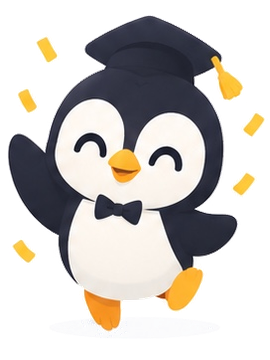
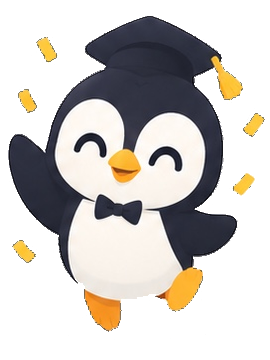
Back to Duolingo's white light theme; clean the penguin's edges
- White ground, grey-bordered cards, Duolingo green buttons with white text,
  unit banners with white text (dark on gold); dark theme kept
- Penguin poses: light fringe removed so they sit cleanly on dark grounds
- CLAUDE.md and DESIGN.md record the white theme; the anti-slop rules stay
  as guidance

Claude-Session: https://claude.ai/code/session_01FsTMQKvbk8XhsCdfuhHWCR

diff --git a/src/styles.css b/src/styles.css
@@ -1,6 +1,6 @@
 /* Hugo's Piano. Design rules live in DESIGN.md and CLAUDE.md; read them before changing anything here.
-   Duolingo's measured system: sky-blue ground (#ddf4ff), white cards with a soft tinted shadow, lime
-   primary (#a5ed6e) with near-black text, one blue accent (#1cb0f6) for interactive things, charcoal
+   Duolingo's app look: a white ground, cards with a 2px grey border, the Duolingo green (#58cc02)
+   with white text on chunky buttons, one blue accent (#1cb0f6) for interactive things, charcoal
    text, one family (Nunito, bold), 12px corners, a 10px spacing unit, 300ms ease for every transition.
    Light and dark themes come from the same tokens. The piano screens keep their Simply Piano look. */
 
@@ -13,39 +13,39 @@
 
 :root {
   /* Ground and surfaces */
-  --bg: #ddf4ff;
-  --bg-deep: #eef8fe;
+  --bg: #ffffff;
+  --bg-deep: #f7f7f7;
   --surface: #ffffff;
-  --surface-2: #f2f9fd;
+  --surface-2: #f7f7f7;
   --raised: #ffffff;
-  --raised-edge: #cfe0ea;
-  --line: #d5e3ec;
-  --line-2: #b8cbd6;
+  --raised-edge: #e5e5e5;
+  --line: #e5e5e5;
+  --line-2: #cecece;
   --paper: #ffffff;
-  --shadow: 0 0 5px rgba(28, 90, 128, .2);
+  --shadow: none;
   /* Text */
   --heading: #3c3c3c;
   --ink: #3c3c3c;
   --ink-2: #5c5c5c;
   --ink-3: #777777;
   /* Primary: lime with near-black text */
-  --go: #a5ed6e;
-  --go-hi: #b3f282;
-  --go-edge: #7fc94c;
-  --go-ink: #111111;
-  --go-soft: #e8fbd9;
-  --go-text: #2e7d0f;
+  --go: #58cc02;
+  --go-hi: #61e002;
+  --go-edge: #58a700;
+  --go-ink: #ffffff;
+  --go-soft: #d7ffb8;
+  --go-text: #3b8a00;
   /* Accent: the one interactive blue */
   --blue: #1cb0f6;
-  --blue-edge: #1593cf;
-  --blue-soft: #e3f5ff;
-  --blue-line: #9ad9fb;
-  --on-blue: #111111;
+  --blue-edge: #1899d6;
+  --blue-soft: #ddf4ff;
+  --blue-line: #84d8ff;
+  --on-blue: #ffffff;
   --blue-text: #0a6fa3;
   /* Game colours, each with a text shade that passes AA */
   --star: #ffc800;
   --star-edge: #e0ad00;
-  --star-off: #d5e3ec;
+  --star-off: #e5e5e5;
   --star-text: #8a6500;
   --flame: #ff9600;
   --flame-edge: #e08300;
@@ -941,7 +941,7 @@ h1, h2, h3 { font-weight: 900; letter-spacing: .8px; color: var(--heading); }
 .icon-btn.ghost { border: 0; box-shadow: none; }
 
 /* Cards: white, a 2px grey border, a soft edge. */
-.card { background: var(--surface); border: 0; border-radius: 12px; box-shadow: var(--shadow); }
+.card { background: var(--surface); border: 2px solid var(--line); border-radius: 12px; box-shadow: none; }
 .veil .card { border-radius: 12px; border: 0; box-shadow: var(--shadow); }
 
 /* Shell: a white sidebar; the current page sits in a pale blue pill. */
@@ -1391,8 +1391,8 @@ button.gb-stat:hover { background: var(--bg-deep); }
 /* =====================================================================
    System layer: the measured design rules (DESIGN.md). Last, so it wins.
    ===================================================================== */
-.veil .card { border: 0; box-shadow: var(--shadow); }
-.rail { background: var(--surface); border-right: 0; box-shadow: var(--shadow); }
+.veil .card { border: 2px solid var(--line); box-shadow: 0 6px 0 var(--line); }
+.rail { background: var(--surface); border-right: 2px solid var(--line); box-shadow: none; }
 .rail-btn.on { color: var(--blue-text); background: var(--blue-soft); box-shadow: inset 0 0 0 2px var(--blue-line); }
 .content { background: var(--bg); }
 .page-head h1, .shop .page-head h1 { font-size: 22px; letter-spacing: .8px; }
@@ -1412,7 +1412,7 @@ button.gb-stat:hover { background: var(--bg-deep); }
 .lesson-energy { color: #a8307f; background: #fff; }
 
 /* Path: unit colours carry their own text colour (--unit-ink) so every banner, node and card passes contrast */
-.path-unit, .guide-card, .theory-screen { --unit-ink: #111111; }
+.path-unit, .guide-card, .theory-screen { --unit-ink: #ffffff; }
 .unit-banner { color: var(--unit-ink); }
 .unit-banner::before { background: var(--bg); }
 .unit-banner h2 { color: var(--unit-ink); font-size: 20px; }
@@ -1444,7 +1444,7 @@ button.gb-stat:hover { background: var(--bg-deep); }
 .btn.super b { background: rgba(255, 255, 255, .18); color: #fff; }
 .super-card, .side-card.super { background: var(--premium); color: #fff; border: 0; }
 .super-card h2, .super-card .sub, .side-card.super h3, .side-card.super .sub { color: #fff; }
-.super-card .btn.super-cta, .side-card.super .btn.super-cta { background: var(--go); color: var(--go-ink); box-shadow: 0 4px 0 var(--go-edge); }
+.super-card .btn.super-cta, .side-card.super .btn.super-cta { background: var(--go); color: var(--go-ink); border: 0; box-shadow: 0 4px 0 var(--go-edge); }
 .super-card .paywall-badge { background: rgba(255, 255, 255, .16); }
 .paywall-compare td:last-child { background: var(--blue-soft); }
 .paywall-compare thead th:last-child, .paywall-compare td:last-child .cell-text { color: var(--blue-text); }
@@ -1481,5 +1481,5 @@ button.gb-stat:hover { background: var(--bg-deep); }
 .paywall h1 { font-size: 24px; }
 .combo { background: #fff; color: #b35500; }
 .combo.hot { background: var(--flame); color: #111111; }
-.lesson-listening { background: var(--blue); color: #111111; }
+.lesson-listening { background: var(--blue); color: #fff; }
 .toast { background: var(--heading); color: var(--surface); }

diff --git a/src/components/PathHome.tsx b/src/components/PathHome.tsx
@@ -13,10 +13,10 @@ import { Penguin, type Pose } from './Penguin';
 
 /** Each unit has its own colour, as on Duolingo's path. */
 export const UNIT_COLORS: [string, string, string][] = [
-  // [colour, edge, text on it]: bright colours take near-black text, deep ones white, so all pass contrast.
-  ['#a5ed6e', '#7fc94c', '#111111'], ['#ce82ff', '#a568cc', '#111111'], ['#00cd9c', '#00a57d', '#111111'], ['#1cb0f6', '#1593cf', '#111111'],
-  ['#ff9600', '#e08300', '#111111'], ['#ff86d0', '#e070b4', '#111111'], ['#ff6b6b', '#e04848', '#111111'], ['#2b70c9', '#18599e', '#ffffff'],
-  ['#cc348d', '#a6206f', '#ffffff'], ['#ffc800', '#e0ad00', '#111111'],
+  // [colour, edge, text on it], Duolingo's unit colours with white text (dark text on gold).
+  ['#58cc02', '#58a700', '#ffffff'], ['#ce82ff', '#a568cc', '#ffffff'], ['#00cd9c', '#00a57d', '#ffffff'], ['#1cb0f6', '#1899d6', '#ffffff'],
+  ['#ff9600', '#e08300', '#ffffff'], ['#ff86d0', '#e070b4', '#ffffff'], ['#ff4b4b', '#ea2b2b', '#ffffff'], ['#2b70c9', '#18599e', '#ffffff'],
+  ['#cc348d', '#a6206f', '#ffffff'], ['#ffc800', '#e0ad00', '#4a3200'],
 ];
 export const colorOf = (u: Unit) => UNIT_COLORS[UNITS.indexOf(u) % UNIT_COLORS.length];
 

diff --git a/index.html b/index.html
@@ -3,7 +3,7 @@
   <head>
     <meta charset="UTF-8" />
     <meta name="viewport" content="width=device-width, initial-scale=1, viewport-fit=cover" />
-    <meta name="theme-color" content="#ddf4ff" media="(prefers-color-scheme: light)" />
+    <meta name="theme-color" content="#ffffff" media="(prefers-color-scheme: light)" />
     <meta name="theme-color" content="#0f1c24" media="(prefers-color-scheme: dark)" />
     <meta name="description" content="Hugo's Piano: learn your songs part by part, hand by hand, with stars and a daily streak." />
     <meta name="apple-mobile-web-app-capable" content="yes" />

diff --git a/vite.config.ts b/vite.config.ts
@@ -29,8 +29,8 @@ export default defineConfig({
         start_url: '/',
         display: 'fullscreen',
         orientation: 'landscape',
-        background_color: '#ddf4ff',
-        theme_color: '#ddf4ff',
+        background_color: '#ffffff',
+        theme_color: '#ffffff',
         icons: [
           { src: '/icons/icon-192.png', sizes: '192x192', type: 'image/png' },
           { src: '/icons/icon-512.png', sizes: '512x512', type: 'image/png' },

diff --git a/src/components/Confetti.tsx b/src/components/Confetti.tsx
@@ -1,6 +1,6 @@
 import { useEffect, useMemo, useState } from 'react';
 
-const COLORS = ['#a5ed6e', '#1cb0f6', '#ffc800', '#ff9600', '#ce82ff', '#ff4b4b'];
+const COLORS = ['#58cc02', '#1cb0f6', '#ffc800', '#ff9600', '#ce82ff', '#ff4b4b'];
 
 /** A burst of confetti over a card, for a lesson well played. Same pieces every render. */
 export function Confetti({ n = 36 }: { n?: number }) {

diff --git a/CLAUDE.md b/CLAUDE.md
@@ -1,14 +1,16 @@
 # Hugo's Piano: rules for every session
 
+The anti-slop skill is guidance for avoiding generic AI design, not a theme: the look stays Duolingo's light app.
+
 Read DESIGN.md before touching any UI. These rules are fixed unless the user changes them.
 
-## Design system (Duolingo's measured tokens)
+## Design system (Duolingo's app look)
 - Colours only through the tokens in `src/styles.css` `:root` (light) and its `prefers-color-scheme: dark` block. Never hardcode a colour in a component or rule; add a token.
-- Ground `#ddf4ff`; white cards with a soft tinted shadow (`--shadow`), no borders on cards.
-- Primary `#a5ed6e` with near-black text `#111111`. One interactive accent `#1cb0f6` (text links use `--blue-text`, underlined).
-- Text `#3c3c3c`; muted `#777777` only for hints on white, never body copy on the blue ground.
+- Light and white like the Duolingo app: white ground, cards with a 2px `#e5e5e5` border and no drop shadow, `#f7f7f7` for wells.
+- Primary is Duolingo green `#58cc02` with white bold uppercase text on chunky buttons (4px darker edge that presses down). One interactive accent `#1cb0f6` (text links use `--blue-text`, underlined).
+- Text `#3c3c3c`; muted `#777777` only for hints and labels, never body copy.
 - Game colours (energy pink, gem blue, flame orange, star gold) each have a `-text` shade for text; use it.
-- Unit colours carry their own text colour (`--unit-ink`): near-black on bright colours, white on deep ones.
+- Unit colours carry their own text colour (`--unit-ink`): white, dark brown on gold.
 - One family: Nunito, bold (body 700, headings 900, 0.8px tracking). Hierarchy by weight, modest sizes (page titles 22px).
 - One radius: 12px for buttons, cards, inputs, dialogs. Circles for nodes and dots, full pills for chips.
 - Spacing on a 10px unit (10, 20, 30, 40).
@@ -18,7 +20,7 @@ Read DESIGN.md before touching any UI. These rules are fixed unless the user cha
 ## Product UI rules (from the anti-slop skill)
 - Icons: Phosphor only (`@phosphor-icons/react`), bold weight, fill for solid marks. Never hand-draw SVG icon paths; add the glyph to `Icons.tsx` or `GameIcons.tsx`.
 - Zero em dashes and en dashes in anything the user sees. Use a hyphen, comma, colon or two sentences.
-- Every text/background pair passes WCAG AA (4.5:1, 3:1 for large bold). Check new buttons and chips in both themes.
+- Body text passes WCAG AA (4.5:1). Bold white labels on Duolingo's game colours are the accepted exception, as in Duolingo itself; never put small regular-weight text on them.
 - Light and dark themes both work; screenshot both before committing UI changes.
 - No AI-purple gradients, no decorative dots, no emoji, at most one middle dot per line.
 - One verb per action across the app. Button labels stay on one line.

diff --git a/DESIGN.md b/DESIGN.md
@@ -44,9 +44,9 @@ edges: { button: "0 4px 0 <edge>", node: "0 8px 0 <edge>", card: "2px solid swan
 
 # Design System: Hugo's Piano
 
-## Tokens (the rules, measured from Duolingo)
+## Tokens
 
-Ground #ddf4ff; surfaces white with shadow 0 0 5px rgba(28,90,128,.2); primary #a5ed6e with text #111111; accent #1cb0f6 for everything interactive; text #3c3c3c, muted #777777 (hints on white only). One family, Nunito bold: body 700, headings 900 with 0.8px tracking. Radius 12px for every control, card and dialog. Spacing unit 10px. Every transition 300ms ease. Focus ring 2px accent, 2px offset. A dark theme mirrors every token (ground #0f1c24, surfaces #172630). Icons are Phosphor, bold. No em or en dashes in visible text. See CLAUDE.md for the full rule list.
+White ground like the Duolingo app; cards and dialogs white with a 2px #e5e5e5 border (dialogs add a 6px edge), wells #f7f7f7; primary Duolingo green #58cc02 with white bold uppercase text on 3D buttons; accent #1cb0f6 for everything interactive; text #3c3c3c, muted #777777 for hints. One family, Nunito bold: body 700, headings 900 with 0.8px tracking. Radius 12px for every control, card and dialog. Spacing unit 10px. Every transition 300ms ease. Focus ring 2px accent, 2px offset. A dark theme mirrors every token (ground #0f1c24, surfaces #172630). Icons are Phosphor, bold. No em or en dashes in visible text. See CLAUDE.md for the full rule list.
 
 ## Overview
 
